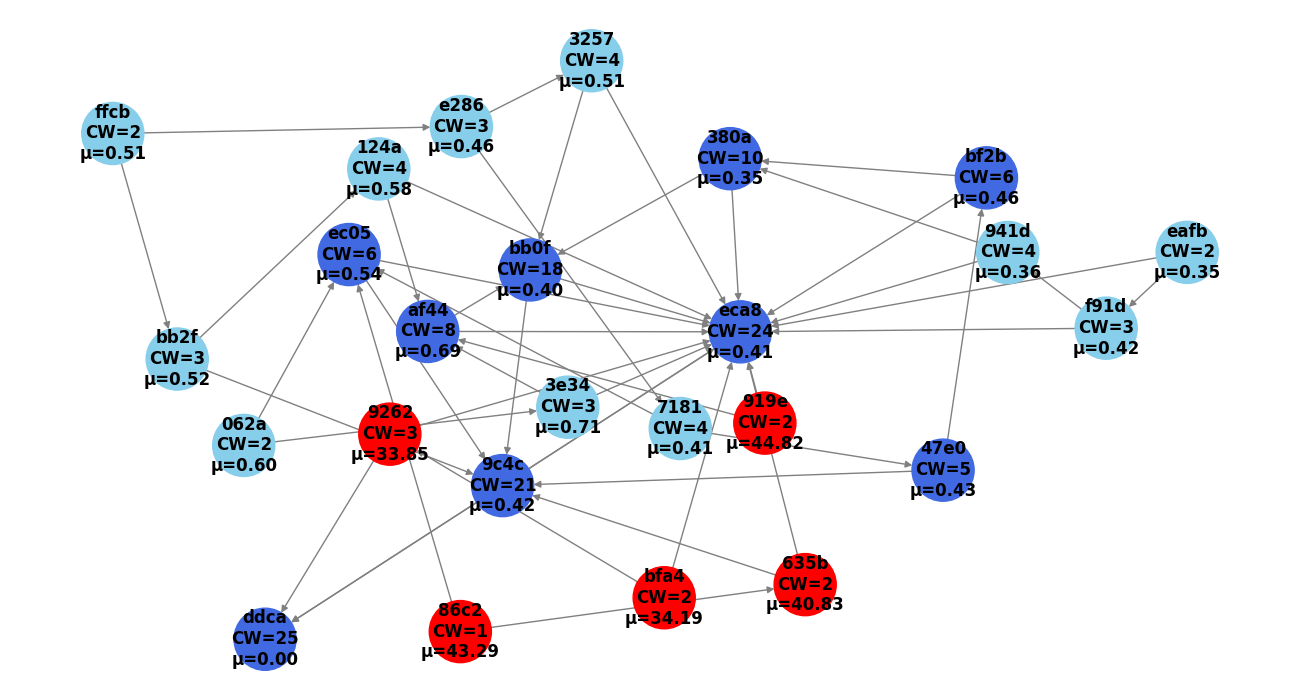
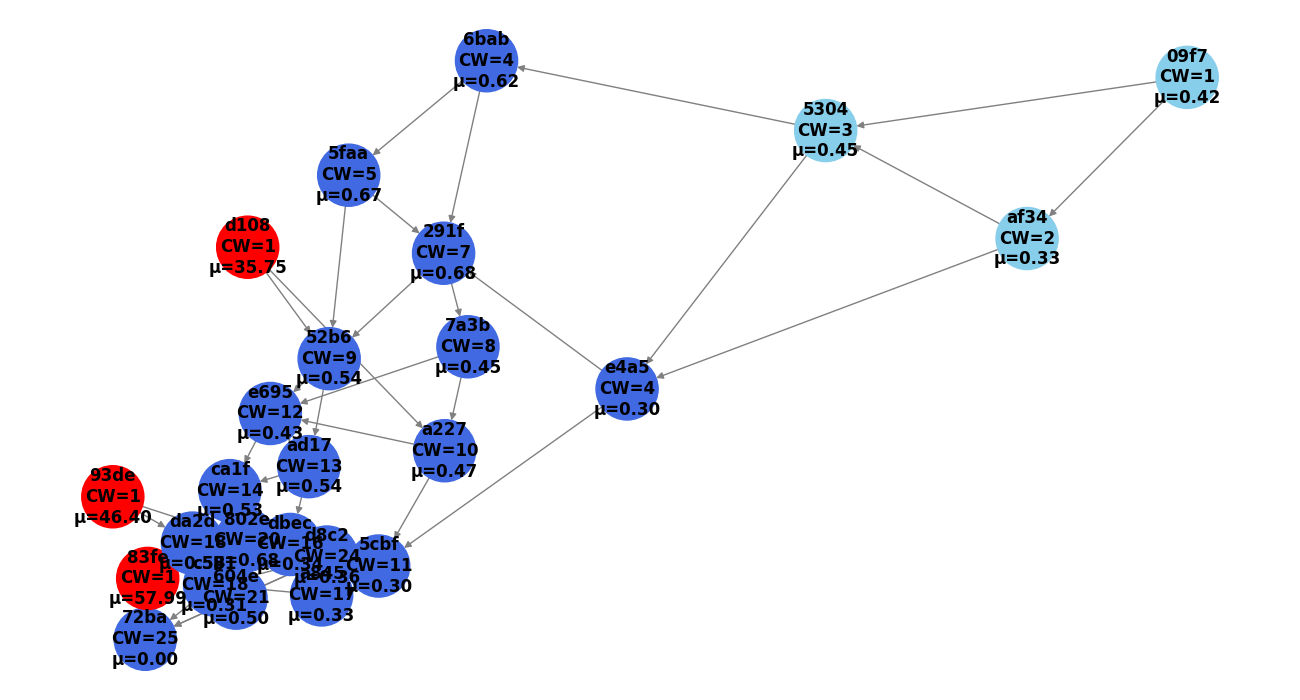
Tweaked custom alg v0.1

diff --git a/Sim_1.py b/Sim_1.py
@@ -8,8 +8,16 @@ import Peer
 import TipSelectionAlgorithm
 import os
 from PIL import Image
+import shutil
 
 def draw_dag(dag, step, pos, folder="frames"):
+    # Rimuovi i file vecchi dalla cartella frames
+    if step == 0:  # Solo al primo step
+        if os.path.exists(folder):
+            shutil.rmtree(folder)
+        os.makedirs(folder, exist_ok=True)
+
+    dag.update_cumulative_weights()  # Aggiorna i pesi cumulativi
     plt.figure(figsize=(13, 7))
     # Colori dei nodi in base alla conferma e alla malevolenza
     node_colors = []
@@ -49,7 +57,6 @@ def draw_dag(dag, step, pos, folder="frames"):
 
     plt.title(f"DAG Evolution - Step {step}")
     plt.axis("off")
-    os.makedirs(folder, exist_ok=True)
     plt.savefig(f"{folder}/frame_{step:03d}.png")
     plt.close()
 
@@ -76,7 +83,7 @@ dag = DAG.DAG()
 selector = TipSelectionAlgorithm.MyCustomTipSelector()
 
 # Crea 5 peer
-peers = [Peer.Peer(dag, selector, name=f"Peer{i}") for i in range(5)]
+peers = [Peer.Peer(dag, selector, name=f"Peer{i}") for i in range(8)]
 
 # Nodo iniziale
 genesis = DAGNode.DAGNode(np.zeros((3, 3)))
@@ -89,7 +96,7 @@ step = 1
 added_node_ids = []
 malicious_peer = peers[3]  # Definiamo il terzo peer come malevolo
 
-for _ in range(2):
+for _ in range(3):
     for peer in peers:
         if peer == malicious_peer:
             # Genera una matrice malevola con valori molto alti

diff --git a/TipSelectionAlgorithm.py b/TipSelectionAlgorithm.py
@@ -67,7 +67,7 @@ class IOTALikeTipSelector:
         
 class MyCustomTipSelector(TipSelectionAlgorithm):
 
-    def __init__(self, max_depth=4, similarity_threshold=0.25, cw_penalty_factor=0.2):
+    def __init__(self, max_depth=4, similarity_threshold=0.4, cw_penalty_factor=0.05):
         self.max_depth = max_depth
         self.similarity_threshold = similarity_threshold
         self.cw_penalty_factor = cw_penalty_factor  # Factor to penalize high CW nodes
@@ -131,7 +131,7 @@ class MyCustomTipSelector(TipSelectionAlgorithm):
         dag.update_cumulative_weights()
         candidate_tips = [
             n for n in dag.graph.nodes
-            if dag.graph.in_degree(n) == 0 and not dag.is_confirmed(n)
+            if not dag.is_confirmed(n)
         ]
         #print(f"Candidate tips: {candidate_tips}")
 

diff --git a/Peer.py b/Peer.py
@@ -13,11 +13,11 @@ class Peer:
         selected_parents = self.selector.select_tips(self.dag, new_node.data)
 
         # Logging info
-        print(f"\n[{self.name}] Adding node {new_node.id[:6]}")
+        print(f"[{self.name}] Adding node {new_node.id[:6]}")
         for pid in selected_parents:
             cw = self.dag.nodes[pid].cw
             status = "(CONFIRMED)" if self.dag.is_confirmed(pid) else ""
             print(f"  ↳ parent {pid[:6]} | CW={cw} {status}")
-
+        print()
         self.dag.add_node(new_node, selected_parents)
         return new_node.id

diff --git a/DAG.py b/DAG.py
@@ -32,10 +32,10 @@ class DAG:
         # Calcola approvazioni indirette usando DFS inversa
         for node_id in self.graph.nodes:
             descendants = nx.descendants(self.graph.reverse(copy=False), node_id)
-            self.nodes[node_id].cw += len(descendants) +1
+            self.nodes[node_id].cw += len(descendants)  # Rimosso il +1
     
-    def is_confirmed(self, node_id, threshold=5):
+    def is_confirmed(self, node_id, threshold=3):
         return self.nodes[node_id].cw > threshold
-    
+
 
 
